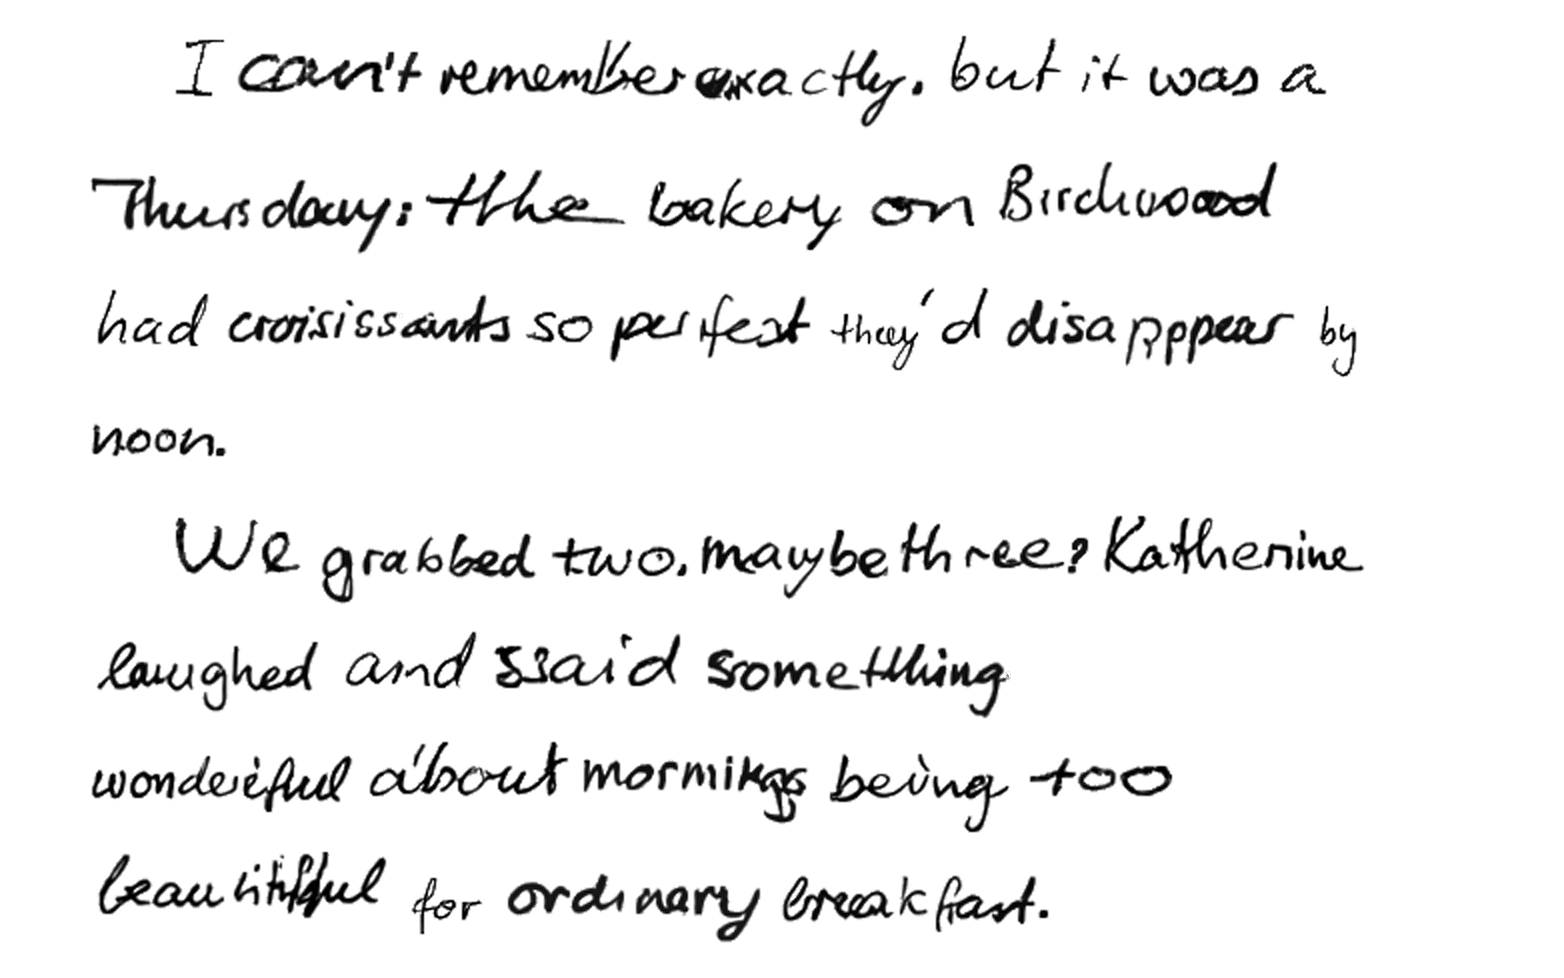
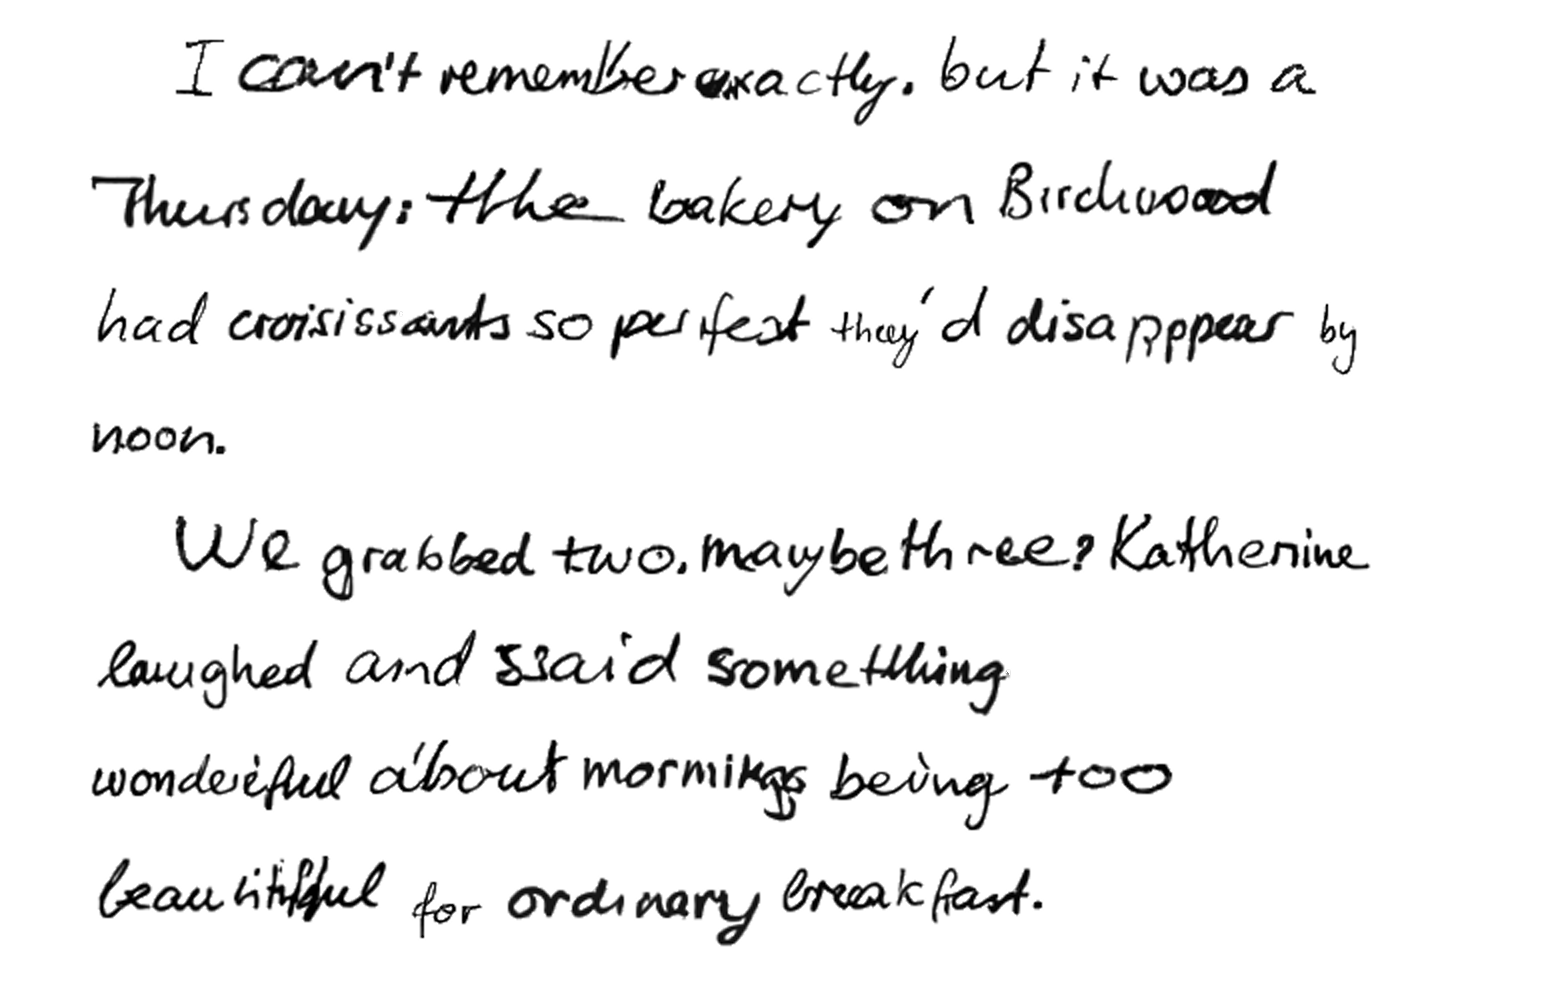
Refresh demo output after the trailing-mark sizing fix
Replaces this push's OUTPUT_HISTORY entry (generated before the fix)
with one from the final code; one new entry relative to origin/main.

diff --git a/docs/OUTPUT_HISTORY.md b/docs/OUTPUT_HISTORY.md
@@ -7,16 +7,16 @@ See [README](../README.md) for current output and project overview.
 
 ---
 
-## 20261013-174230
+## 20261013-185952
 
-![output](output-history/20261013-174230.png)
+![output](output-history/20261013-185952.png)
 
 | Field | Value |
 |-------|-------|
-| Git state | `50d6591 (uncommitted changes: FINDINGS.md draft)` |
-| Commit message | Protect the evaluator in code; publish the audit write-up |
+| Git state | `8b876bf (uncommitted changes)` |
+| Commit message | Zone sizing: measure x-height without trailing marks |
 | Style input | `styles/hw-sample.png` |
-| Metrics | seed=42, sizing=zone, overall=0.711, height_outlier_score=0.071, baseline_alignment=0.356, stroke_weight_consistency=0.879, ocr_accuracy=0.908, ocr_min=0.000, word_readability_rate=0.925, style_fidelity=0.387 |
+| Metrics | seed=42, sizing=zone, overall=0.711, height_outlier_score=0.071, baseline_alignment=0.346, stroke_weight_consistency=0.878, ocr_accuracy=0.910, ocr_min=0.000, word_readability_rate=0.925, style_fidelity=0.386 |
 
 ---
 
